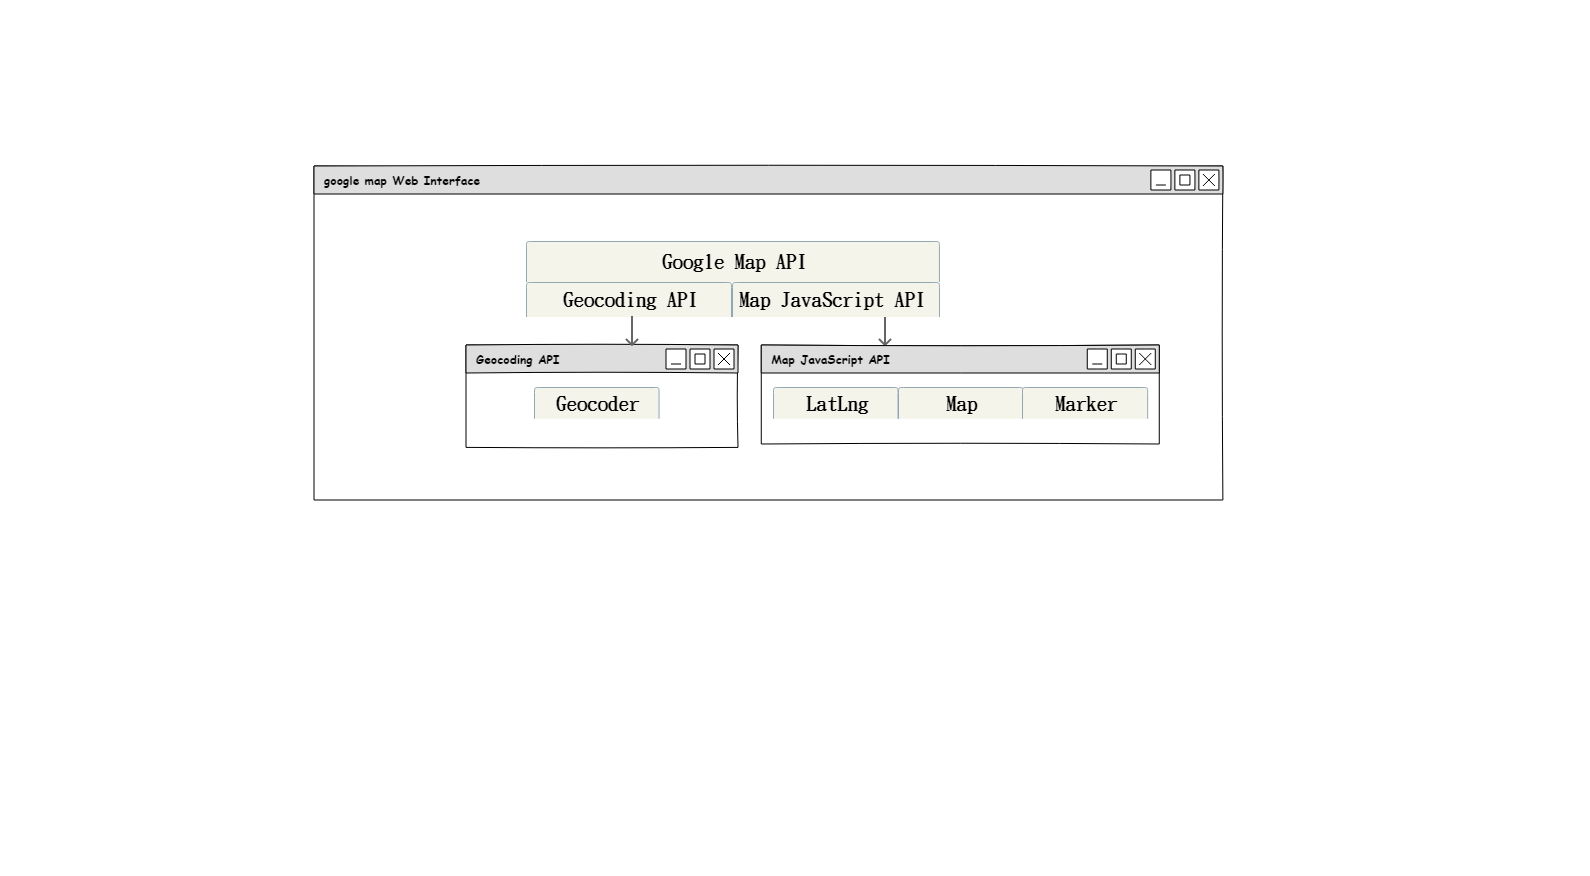
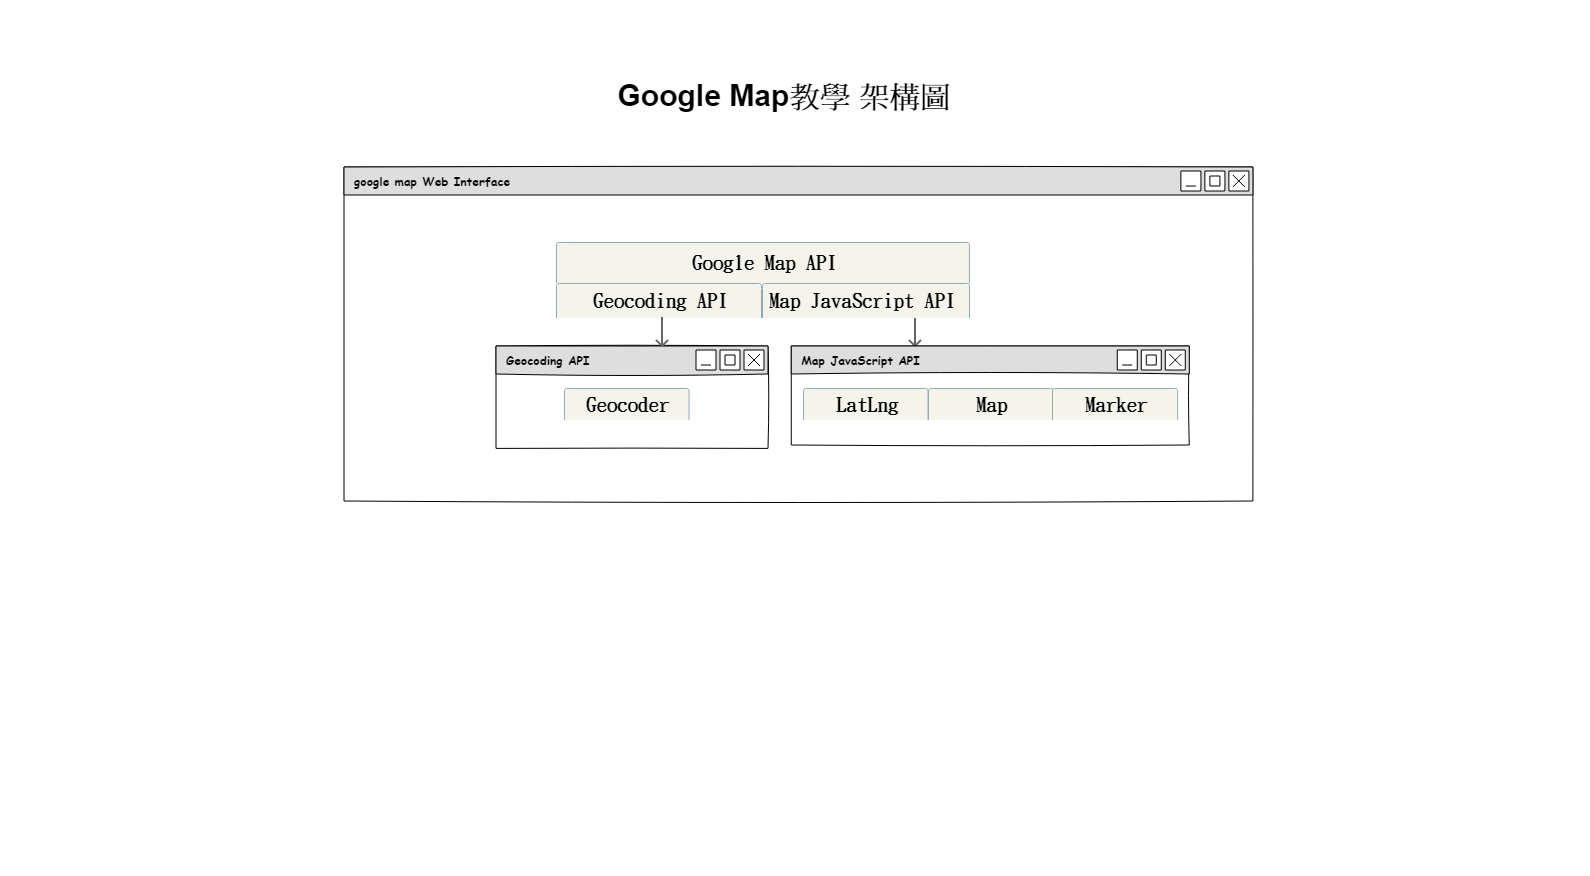
完成google map與流程圖形狀符號文件

diff --git a/流程圖形狀符號.md b/流程圖形狀符號.md
@@ -1,0 +1,17 @@
+## **流程圖形狀符號**
+
+| 形狀                                                         | 名稱          | 用意                                   |
+| ------------------------------------------------------------ | ------------- | -------------------------------------- |
+| ![start](https://raw.githubusercontent.com/coolgood88142/markdown_note/master/assets/images/start.png) | 起止符號      | 開始、結束                             |
+| ![run](https://raw.githubusercontent.com/coolgood88142/markdown_note/master/assets/images/run.png) | 執行符號      | 執行某些事件                           |
+| ![output](https://raw.githubusercontent.com/coolgood88142/markdown_note/master/assets/images/output.png) | 輸入/輸出符號 | 輸入資料或輸出結果                     |
+| ![judge](https://raw.githubusercontent.com/coolgood88142/markdown_note/master/assets/images/judge.png) | 決策符號      | 某個事件做判斷                         |
+| ![path](https://raw.githubusercontent.com/coolgood88142/markdown_note/master/assets/images/path.png) | 路徑符號      | 指向符號做什麼事                       |
+| ![file](https://raw.githubusercontent.com/coolgood88142/markdown_note/master/assets/images/file.png) | 文件符號      | 輸入或輸出文件                         |
+| ![files](https://raw.githubusercontent.com/coolgood88142/markdown_note/master/assets/images/files.png) | 多重文件符號  | 輸入或輸出數個文件                     |
+| ![sub](https://raw.githubusercontent.com/coolgood88142/markdown_note/master/assets/images/sub.png) | 副程式符號    | 執行多個程式流程                       |
+| ![conn](https://raw.githubusercontent.com/coolgood88142/markdown_note/master/assets/images/conn.png) | 連接符號      | 用來連到下一頁，避免路徑符號太長或交叉 |
+
+
+
+**資料來源:** <https://ithelp.ithome.com.tw/articles/10196068>、http://www.chwa.com.tw/TResource/VS/book2/ch2/2-2.htm

diff --git a/google map.md b/google map.md
@@ -12,19 +12,19 @@
 
 我們比較常看到的用法，在文字框輸入想要地點或地址之後點查詢，地圖會自動刷新顯示地標以及相關資訊。
 
-以下是我們使用google map的架構圖：
+以下是我們使用google map的3種圖：
 
-
-
-補上3種架構圖:
-
-循序圖(UML)和流程圖(圓形為起點、結束，菱形為判斷是否)與架構面(https://dotblogs.com.tw/regionbbs/2016/05/05/the-cost-behind-the-architecture)
+#### 1.google map API如何實做地圖的循序圖：
 
 ![map](<https://raw.githubusercontent.com/coolgood88142/markdown_note/master/assets/images/UML.png>)
 
+#### 2.google map API實做的流程圖：
+
 ![map](<https://raw.githubusercontent.com/coolgood88142/markdown_note/master/assets/images/Flow Chart.png>)
 
+#### 3.google map API實做時包含哪些物件的架構圖：
 
+![map](<https://raw.githubusercontent.com/coolgood88142/markdown_note/master/assets/images/Frame.png>)
 
 製作Google Map需要google提供的google map API才能實做，今天我們使用Geocoding API裡的地理編碼請求與Map JavaScript API來實做，以下介紹兩種的官網文件資訊
 
